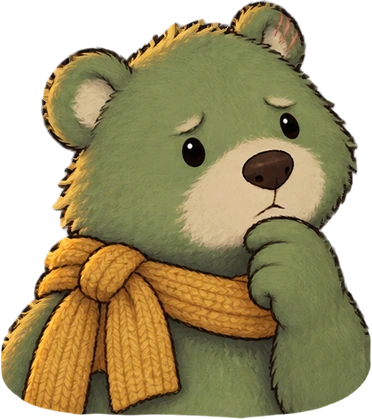
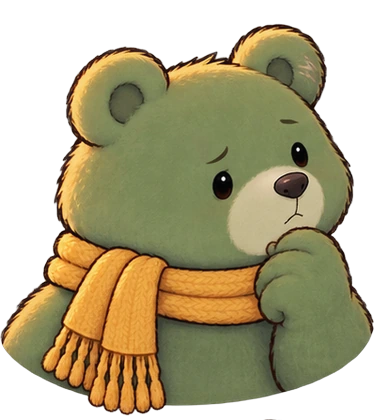
Green: new 8-expression portraits; stills fade slowly in and out
Claude-Session: https://claude.ai/code/session_01AUyQGBnShhd9gkNdWBzHyS

diff --git a/prototype/bell_village_web/index.html b/prototype/bell_village_web/index.html
@@ -273,7 +273,7 @@ body{background:#05070f;color:var(--paper);font-family:var(--font-body);overflow
 .choice:hover,.choice.sel{filter:brightness(1.08) saturate(1.15) drop-shadow(0 3px 5px rgba(0,0,0,.4)) drop-shadow(0 0 7px rgba(255,214,140,.55));color:#6e2a35;transform:translateX(4px) rotate(-.6deg)}
 
 /* full-screen story stills shown behind the dialogue box for chosen lines */
-#still{position:absolute;inset:0;z-index:6;opacity:0;pointer-events:none;transition:opacity .7s}
+#still{position:absolute;inset:0;z-index:6;opacity:0;pointer-events:none;transition:opacity 1.6s ease-in-out}
 #still.on{opacity:1}
 #still img{width:100%;height:100%;object-fit:cover;display:block}
 #still:after{content:"";position:absolute;inset:0;background:radial-gradient(ellipse at 50% 45%,rgba(0,0,0,0) 55%,rgba(3,4,14,.55) 100%)}
@@ -1236,7 +1236,7 @@ Object.assign(D, {
   ci6_1: {sp:"bgb", ex:"neutral", t:{en:"Compare the clues on the Identity Board under People. After that, I have to see Green at the Old Mill.", ko:"사람 탭의 신원 보드에서 단서를 맞춰 보자. 그다음엔 낡은 방앗간의 Green을 만나야 해."}, next:null}
 });
 const SP = { ed:{name:{en:"Edward",ko:"에드워드"}, img:"assets/edward_front.webp", por:"assets/por_edward_"}, kid:{name:{en:"Green",ko:"형"}, img:"assets/twin_elder_front.webp", por:"assets/por_elder_"}, yo:{name:{en:"Little Green",ko:"동생"}, img:"assets/twin_younger_front.webp", por:"assets/por_younger_"}, nar:{name:{en:"",ko:""}, img:"assets/twin_elder_front.webp", hide:true}, v1:{name:{en:"Villager",ko:"마을 사람"}, img:"assets/molly_front.webp", sil:true, big:"assets/sil_rabbit.webp"}, v2:{name:{en:"Villager 2",ko:"주민 2"}, img:"assets/molly_front.webp", sil:true, big:"assets/sil_goat.webp"}, mo:{name:{en:"Grandma Molly",ko:"몰리"}, img:"assets/molly_front.webp", por:"assets/por_molly_"}, gr:{name:{en:"Green",ko:"그린"}, img:"assets/green_front.webp", por:"assets/por_green_"}, tm:{name:{en:"Tommy",ko:"토미"}, img:"assets/tommy_front.webp", por:"assets/por_tommy_"}, bgb:{name:{en:"BGB",ko:"빅그베"}, img:"assets/big_green_bear_front.webp", por:"assets/por_bgb_"}, hz:{name:{en:"Hazel",ko:"헤이즐"}, img:"assets/cafe_owner_front.webp", por:"assets/por_hazel_"}, nini:{name:{en:"Nini",ko:"니니"}, img:"assets/nini_front.webp", por:"assets/por_nini_"}, ck:{name:{en:"Oliver",ko:"올리버"}, img:"assets/clockkeeper_front.webp", por:"assets/por_oliver_"} };
-const EXPR = ["neutral","worried","surprised","thinking"], EXPR_X = { bgb:["laugh","sad","stern","relieved"] };   /* extra expressions only some speakers have */
+const EXPR = ["neutral","worried","surprised","thinking"], EXPR_X = { bgb:["laugh","sad","stern","relieved"], gr:["laugh","sad","stern","relieved"] };   /* extra expressions only some speakers have */
 
 /* ---------- state ---------- */
 const SAVE_KEY = "bgb2.bellvillage.proto.v2";   /* v2: saves from before the prologue existed would skip it, so everyone restarts once */
@@ -2197,7 +2197,7 @@ function sizeDlg(text){
 /* The close-up of an NPC on the left looks toward the middle of the screen. Mirrored only here, only for people whose side carries no clue: Green and BGB (scarf side) and May (hair and satchel side) are never mirrored. */
 const NOFLIP = new Set(["gr","bgb","hl","kid","yo","mo","hz","v1","cr"]);   /* mo and hz already look to the right in their art */
 const FLIP_TOGGLE = new Set(["mo:worried","tm:surprised","tm:thinking"]);   /* expressions whose art faces the other way from the rest of that person */
-let STILL_ON = false;
+let STILL_ON = false, STILL_SW = 0;
 const STILLS = (() => {
   const m = { fnB_15:"assets/still_endB_wait.webp", fnB_16:"assets/still_endB_wait.webp" };
   const span = (id, a, b, src) => { for (let i = a; i <= b; i++) m[id + "_" + i] = src; };
@@ -2935,7 +2935,9 @@ function setSideOpen(on){ stage.classList.toggle("sideopen", on); sideBook.class
 sideBook.addEventListener("click", e=>{ e.stopPropagation(); if (mode === "play") setSideOpen(!stage.classList.contains("sideopen")); stage.focus(); });
 document.addEventListener("pointerdown", e=>{ if (stage.classList.contains("sideopen") && !e.target.closest("#side,#sideBook")) setSideOpen(false); }, true);
 function frame(now){
-  { const sk = mode === "dlg" && $("dlg").classList.contains("on") && cur && STILLS[cur] || (ENDHOLD ? "assets/still_clock_tower.webp" : $("endcard").classList.contains("on") && /E1$/.test($("eEy").textContent) ? "assets/still_clock_tower.webp" : ""), st = $("still"); if (sk && $("stillImg").getAttribute("src") !== sk) $("stillImg").src = sk; st.classList.toggle("on", !!sk); stage.classList.toggle("stillon", !!sk); STILL_ON = !!sk; }
+  { const sk = mode === "dlg" && $("dlg").classList.contains("on") && cur && STILLS[cur] || (ENDHOLD ? "assets/still_clock_tower.webp" : $("endcard").classList.contains("on") && /E1$/.test($("eEy").textContent) ? "assets/still_clock_tower.webp" : ""), st = $("still"), im = $("stillImg"); let want = sk;
+    if (sk && im.getAttribute("src") !== sk){ if (STILL_SW) want = ""; else if (st.classList.contains("on")){ want = ""; STILL_SW = setTimeout(()=>{ im.src = sk; STILL_SW = 0; }, 1700); } else im.src = sk; }   /* a different still fades out first, then the next fades in */
+    st.classList.toggle("on", !!want); stage.classList.toggle("stillon", !!sk); STILL_ON = !!sk; }
   { const bp = $("bigPor"), want = mode === "dlg" && $("dlg").classList.contains("on") && !!bigSide && !STILL_ON; if (bp.classList.contains("on") !== want) bp.classList.toggle("on", want); }
   { const hide = mode !== "play"; if (stage.classList.contains("nomenu") !== hide){ stage.classList.toggle("nomenu", hide); if (hide) setSideOpen(false); } }   /* the menu is only there while exploring: any dialogue, pause, modal, scene change or journal hides and folds it, and it comes back by itself */
   const dt = Math.min(0.05, (now - last)/1000); last = now;
